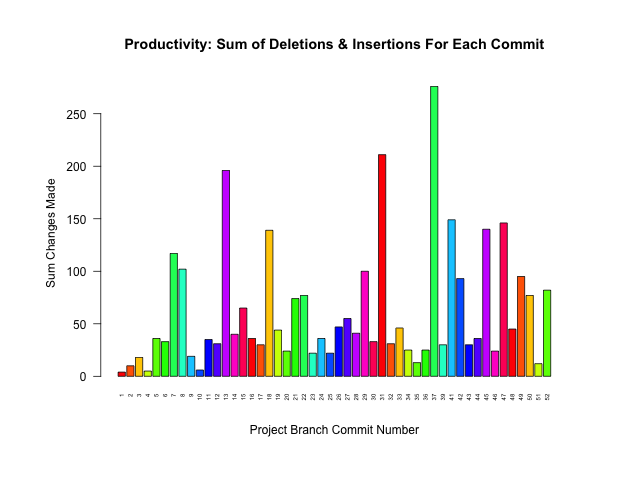
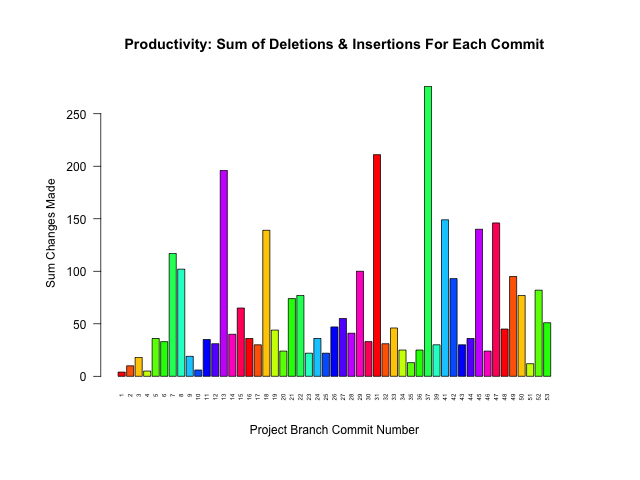
COMMIT #218

Changed region(s): [[0.1875, 0.1562, 0.875, 0.8438]]

diff --git a/README.md b/README.md
@@ -17,8 +17,8 @@ ProjectName::BranchName.data
 
 Project Name | Last Updated | # Commits | # Branches | Branches Merged
 :---|:---:|:---:|:---:|:---:
-[learn_some_C.Plus.Plus](https://github.com/pierremigeon/learn_some_C.Plus.Plus)                    |  2023-06-21  |  52   |  1  |  100%  (1/1)
-[commit_tracker](https://github.com/pierremigeon/commit_tracker)                                    |  2023-06-20  |  216  |  1  |  100%  (1/1)
+[learn_some_C.Plus.Plus](https://github.com/pierremigeon/learn_some_C.Plus.Plus)                    |  2023-06-22  |  53   |  1  |  100%  (1/1)
+[commit_tracker](https://github.com/pierremigeon/commit_tracker)                                    |  2023-06-22  |  217  |  1  |  100%  (1/1)
 [libft](https://github.com/pierremigeon/libft)                                                      |  2023-06-05  |  30   |  2  |  50%   (1/2)
 [ft_printf](https://github.com/pierremigeon/ft_printf)                                              |  2023-06-01  |  37   |  2  |  100%  (2/2)
 [minishell](https://github.com/pierremigeon/minishell)                                              |  2023-05-20  |  78   |  8  |  88%   (7/8)
